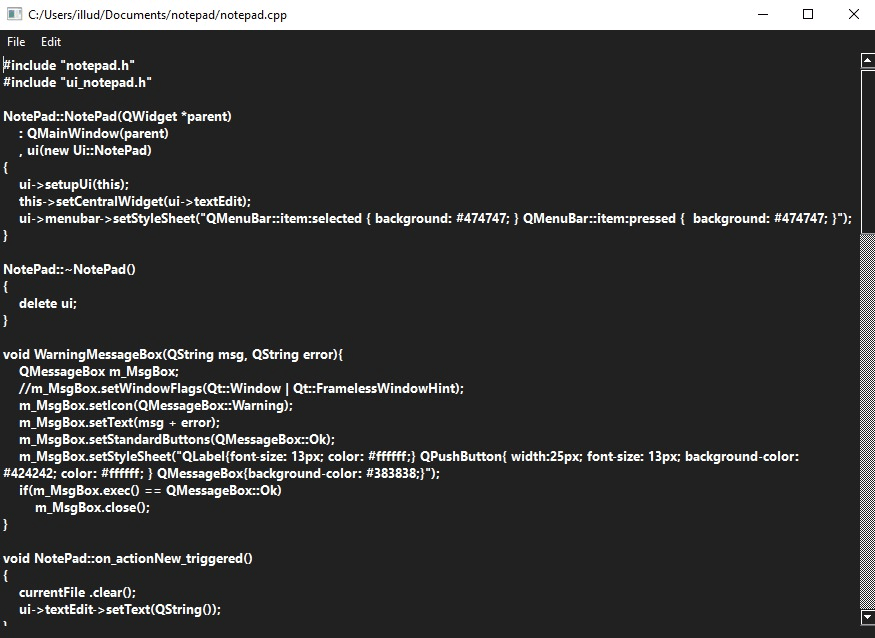
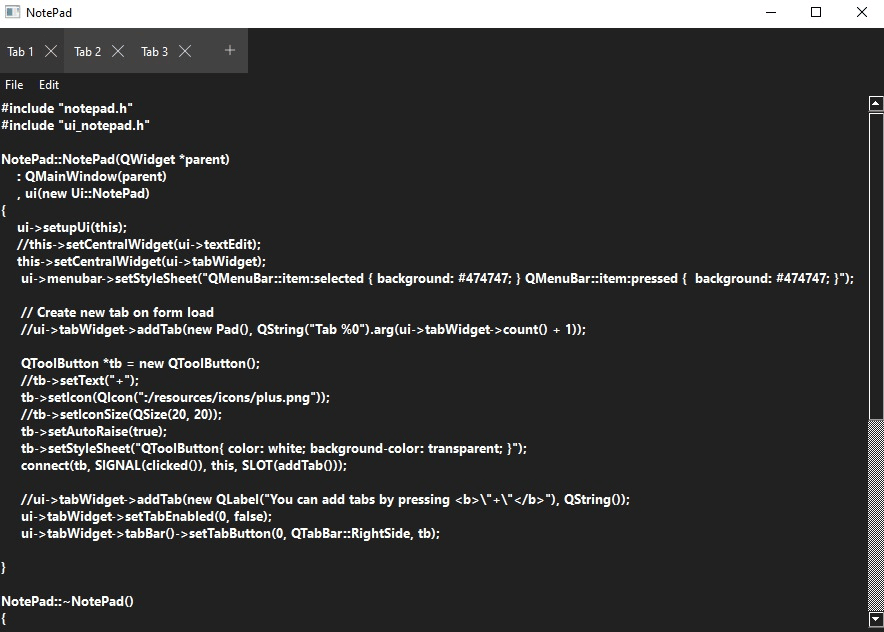
tabs design

Changed region(s): [[0.0, 0.0, 1.0, 1.0], [0.9874, 0.1503, 1.0, 0.1804]]

diff --git a/notepad.cpp b/notepad.cpp
@@ -11,7 +11,20 @@ NotePad::NotePad(QWidget *parent)
      ui->menubar->setStyleSheet("QMenuBar::item:selected { background: #474747; } QMenuBar::item:pressed {  background: #474747; }");
 
      // Create new tab on form load
-     ui->tabWidget->addTab(new Pad(), QString("Tab %0").arg(ui->tabWidget->count() + 1));
+     //ui->tabWidget->addTab(new Pad(), QString("Tab %0").arg(ui->tabWidget->count() + 1));
+
+     QToolButton *tb = new QToolButton();
+     //tb->setText("+");
+     tb->setIcon(QIcon(":/resources/icons/plus.png"));
+     //tb->setIconSize(QSize(20, 20));
+     tb->setAutoRaise(true);
+     tb->setStyleSheet("QToolButton{ color: white; background-color: transparent; }");
+     connect(tb, SIGNAL(clicked()), this, SLOT(addTab()));
+
+     //ui->tabWidget->addTab(new QLabel("You can add tabs by pressing <b>\"+\"</b>"), QString());
+     ui->tabWidget->setTabEnabled(0, false);
+     ui->tabWidget->tabBar()->setTabButton(0, QTabBar::RightSide, tb);
+
 }
 
 NotePad::~NotePad()
@@ -19,14 +32,18 @@ NotePad::~NotePad()
     delete ui;
 }
 
+void NotePad::addTab()
+{
+    static int number = 0;
+    QLabel *tab = new QLabel(this);
+    QString tabName = QString("Tab %1").arg(++number);
+    tab->setText( QString("Inside %1").arg(tabName) );
+    ui->tabWidget->insertTab( ui->tabWidget->count() - 1, new Pad(), tabName);
+    //ui->tabWidget->addTab(new Pad(), QString("Tab %0").arg(ui->tabWidget->count() - 1));
+}
+
 void NotePad::on_tabWidget_tabCloseRequested(int index)
 {
     ui->tabWidget->removeTab(index);
-}
-
-
-void NotePad::on_actionNew_Tab_triggered()
-{
-    ui->tabWidget->addTab(new Pad(), QString("Tab %0").arg(ui->tabWidget->count() + 1));
 }
 

diff --git a/notepad.h b/notepad.h
@@ -10,6 +10,9 @@
 #include <QMessageBox>
 #include <QtPrintSupport/QPrintDialog>
 #include <QtPrintSupport/QPrinter>
+#include <QToolButton>
+#include <QLabel>
+#include <QTabBar>
 #include "pad.h"
 
 QT_BEGIN_NAMESPACE
@@ -28,7 +31,7 @@ public:
 private slots:
     void on_tabWidget_tabCloseRequested(int index);
 
-    void on_actionNew_Tab_triggered();
+    void addTab();
 
 private:
     Ui::NotePad *ui;
